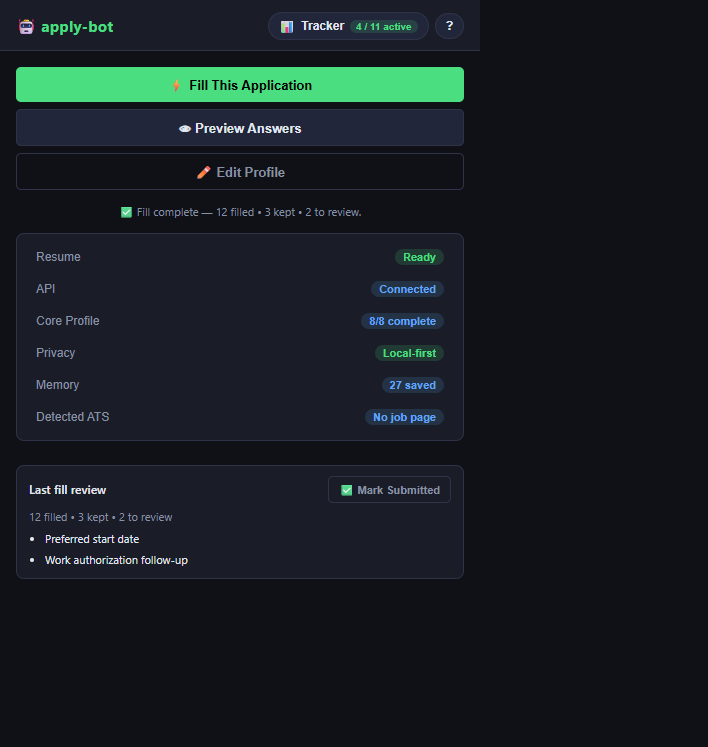
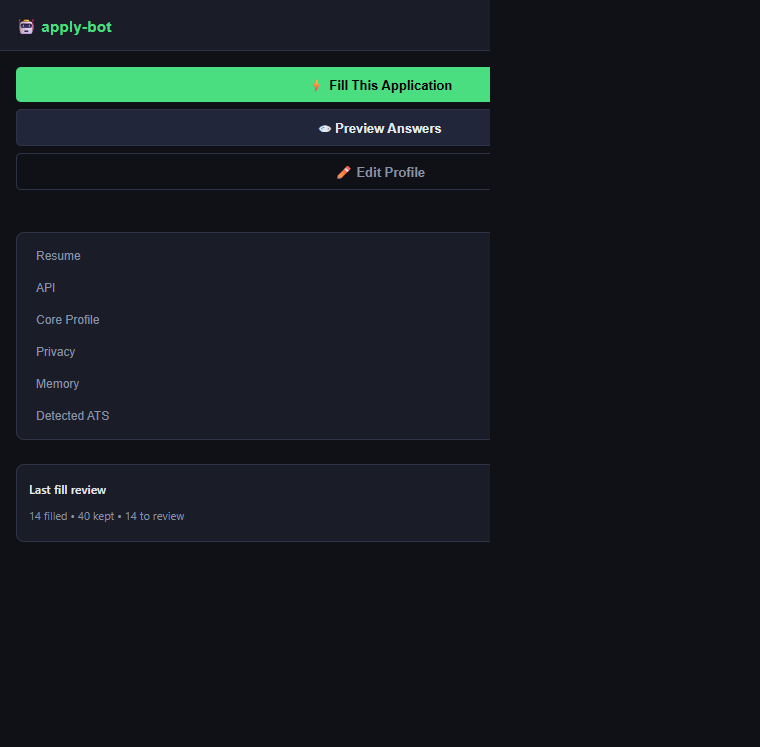
fix: stabilize popup window sizing

diff --git a/popup/popup.css b/popup/popup.css
@@ -34,9 +34,7 @@ body {
 body {
   background: var(--bg);
   color: var(--text);
-  width: min(920px, calc(100vw - 24px));
   min-height: 520px;
-  max-width: 100vw;
   overflow-x: hidden;
   overflow-y: auto;
   font-size: 13px;
@@ -46,12 +44,11 @@ body {
 body[data-screen="setup"],
 body[data-screen="tracker"],
 body[data-screen="preview"] {
-  width: min(980px, calc(100vw - 24px));
   min-height: 680px;
 }
 
 body[data-standalone="true"] {
-  width: auto;
+  width: min(980px, calc(100vw - 24px));
   min-height: calc(100vh - 16px);
 }
 
@@ -73,6 +70,13 @@ body[data-standalone="true"][data-screen="preview"] {
   display: flex;
   flex-direction: column;
   min-height: 100%;
+  width: 760px;
+}
+
+body[data-standalone="true"] #app {
+  width: 100%;
+  max-width: 980px;
+  margin: 0 auto;
 }
 
 /* ── Header ── */
@@ -730,7 +734,7 @@ textarea {
 
 .tracker-list {
   display: grid;
-  grid-template-columns: repeat(6, minmax(0, 1fr));
+  grid-template-columns: repeat(auto-fit, minmax(170px, 1fr));
   gap: 8px;
   align-items: start;
 }
@@ -1126,19 +1130,17 @@ textarea {
   text-decoration: underline;
 }
 
-@media (max-width: 900px) {
-  .tracker-list {
-    grid-template-columns: repeat(3, minmax(0, 1fr));
-  }
-}
-
 @media (max-width: 720px) {
+  body[data-standalone="true"] #app {
+    width: 100%;
+  }
+
   .main-top-grid {
     grid-template-columns: 1fr;
   }
 
   .tracker-list {
-    grid-template-columns: repeat(2, minmax(0, 1fr));
+    grid-template-columns: 1fr;
   }
 }
 
